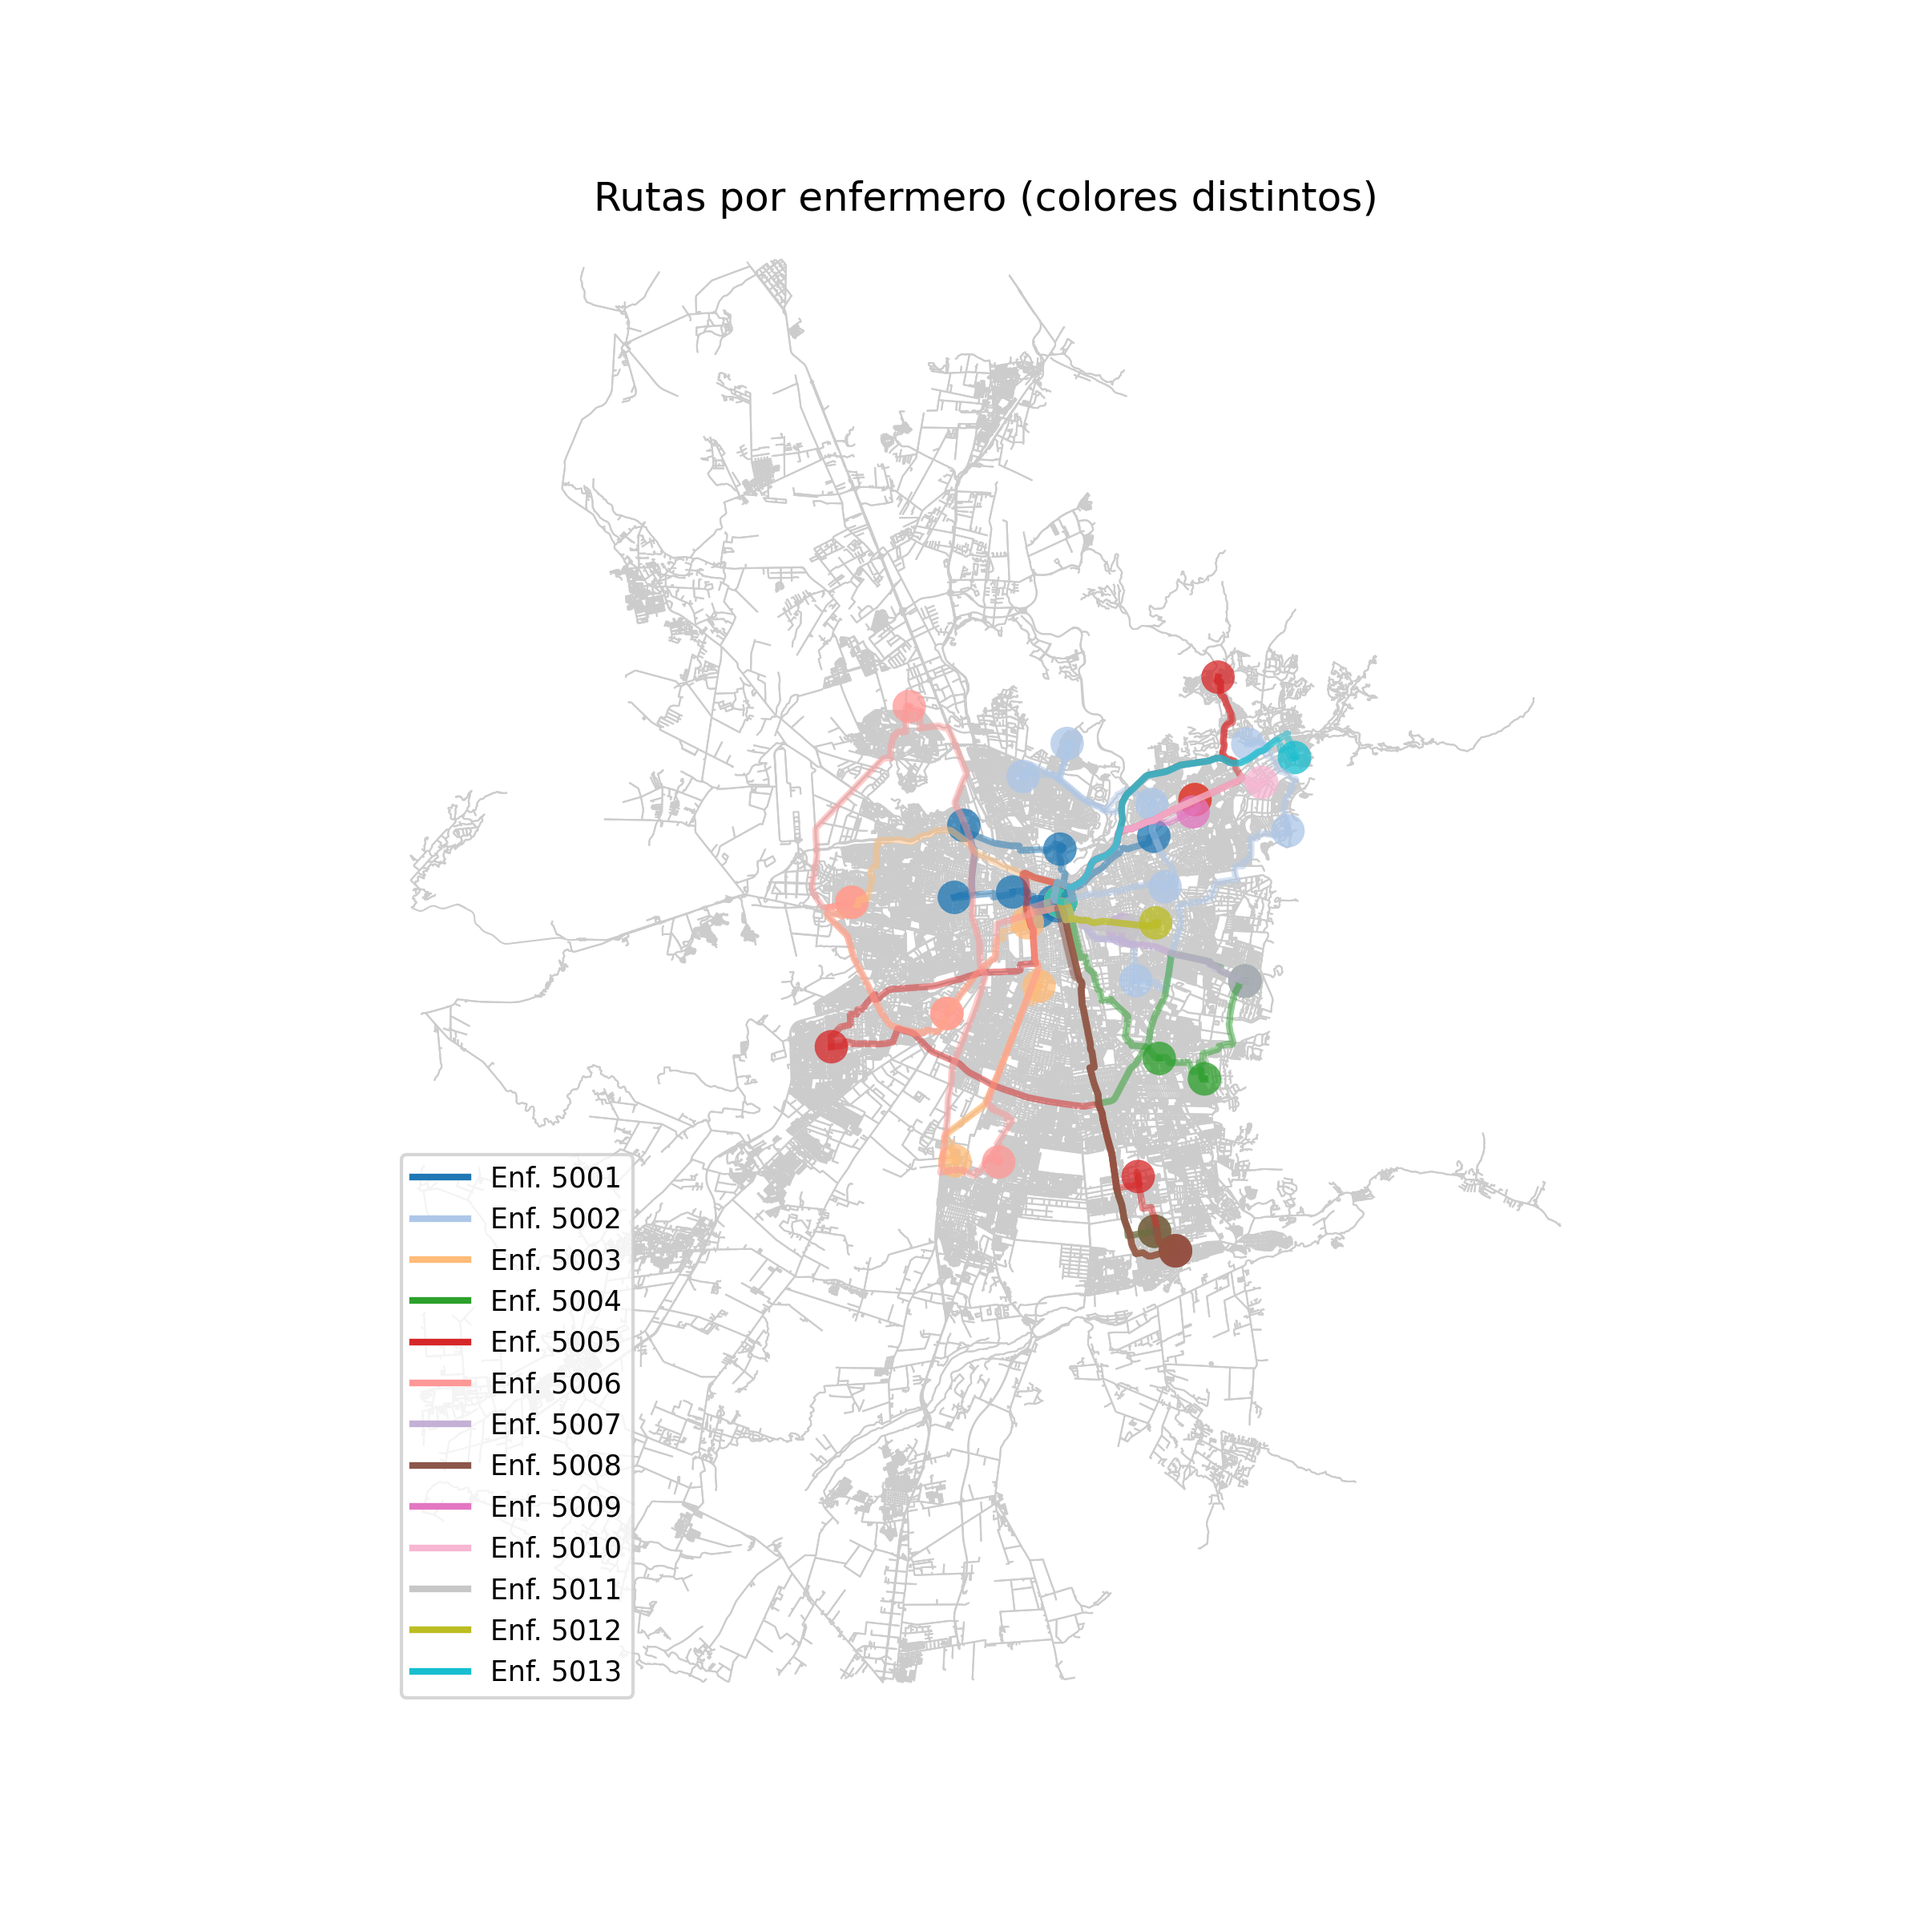
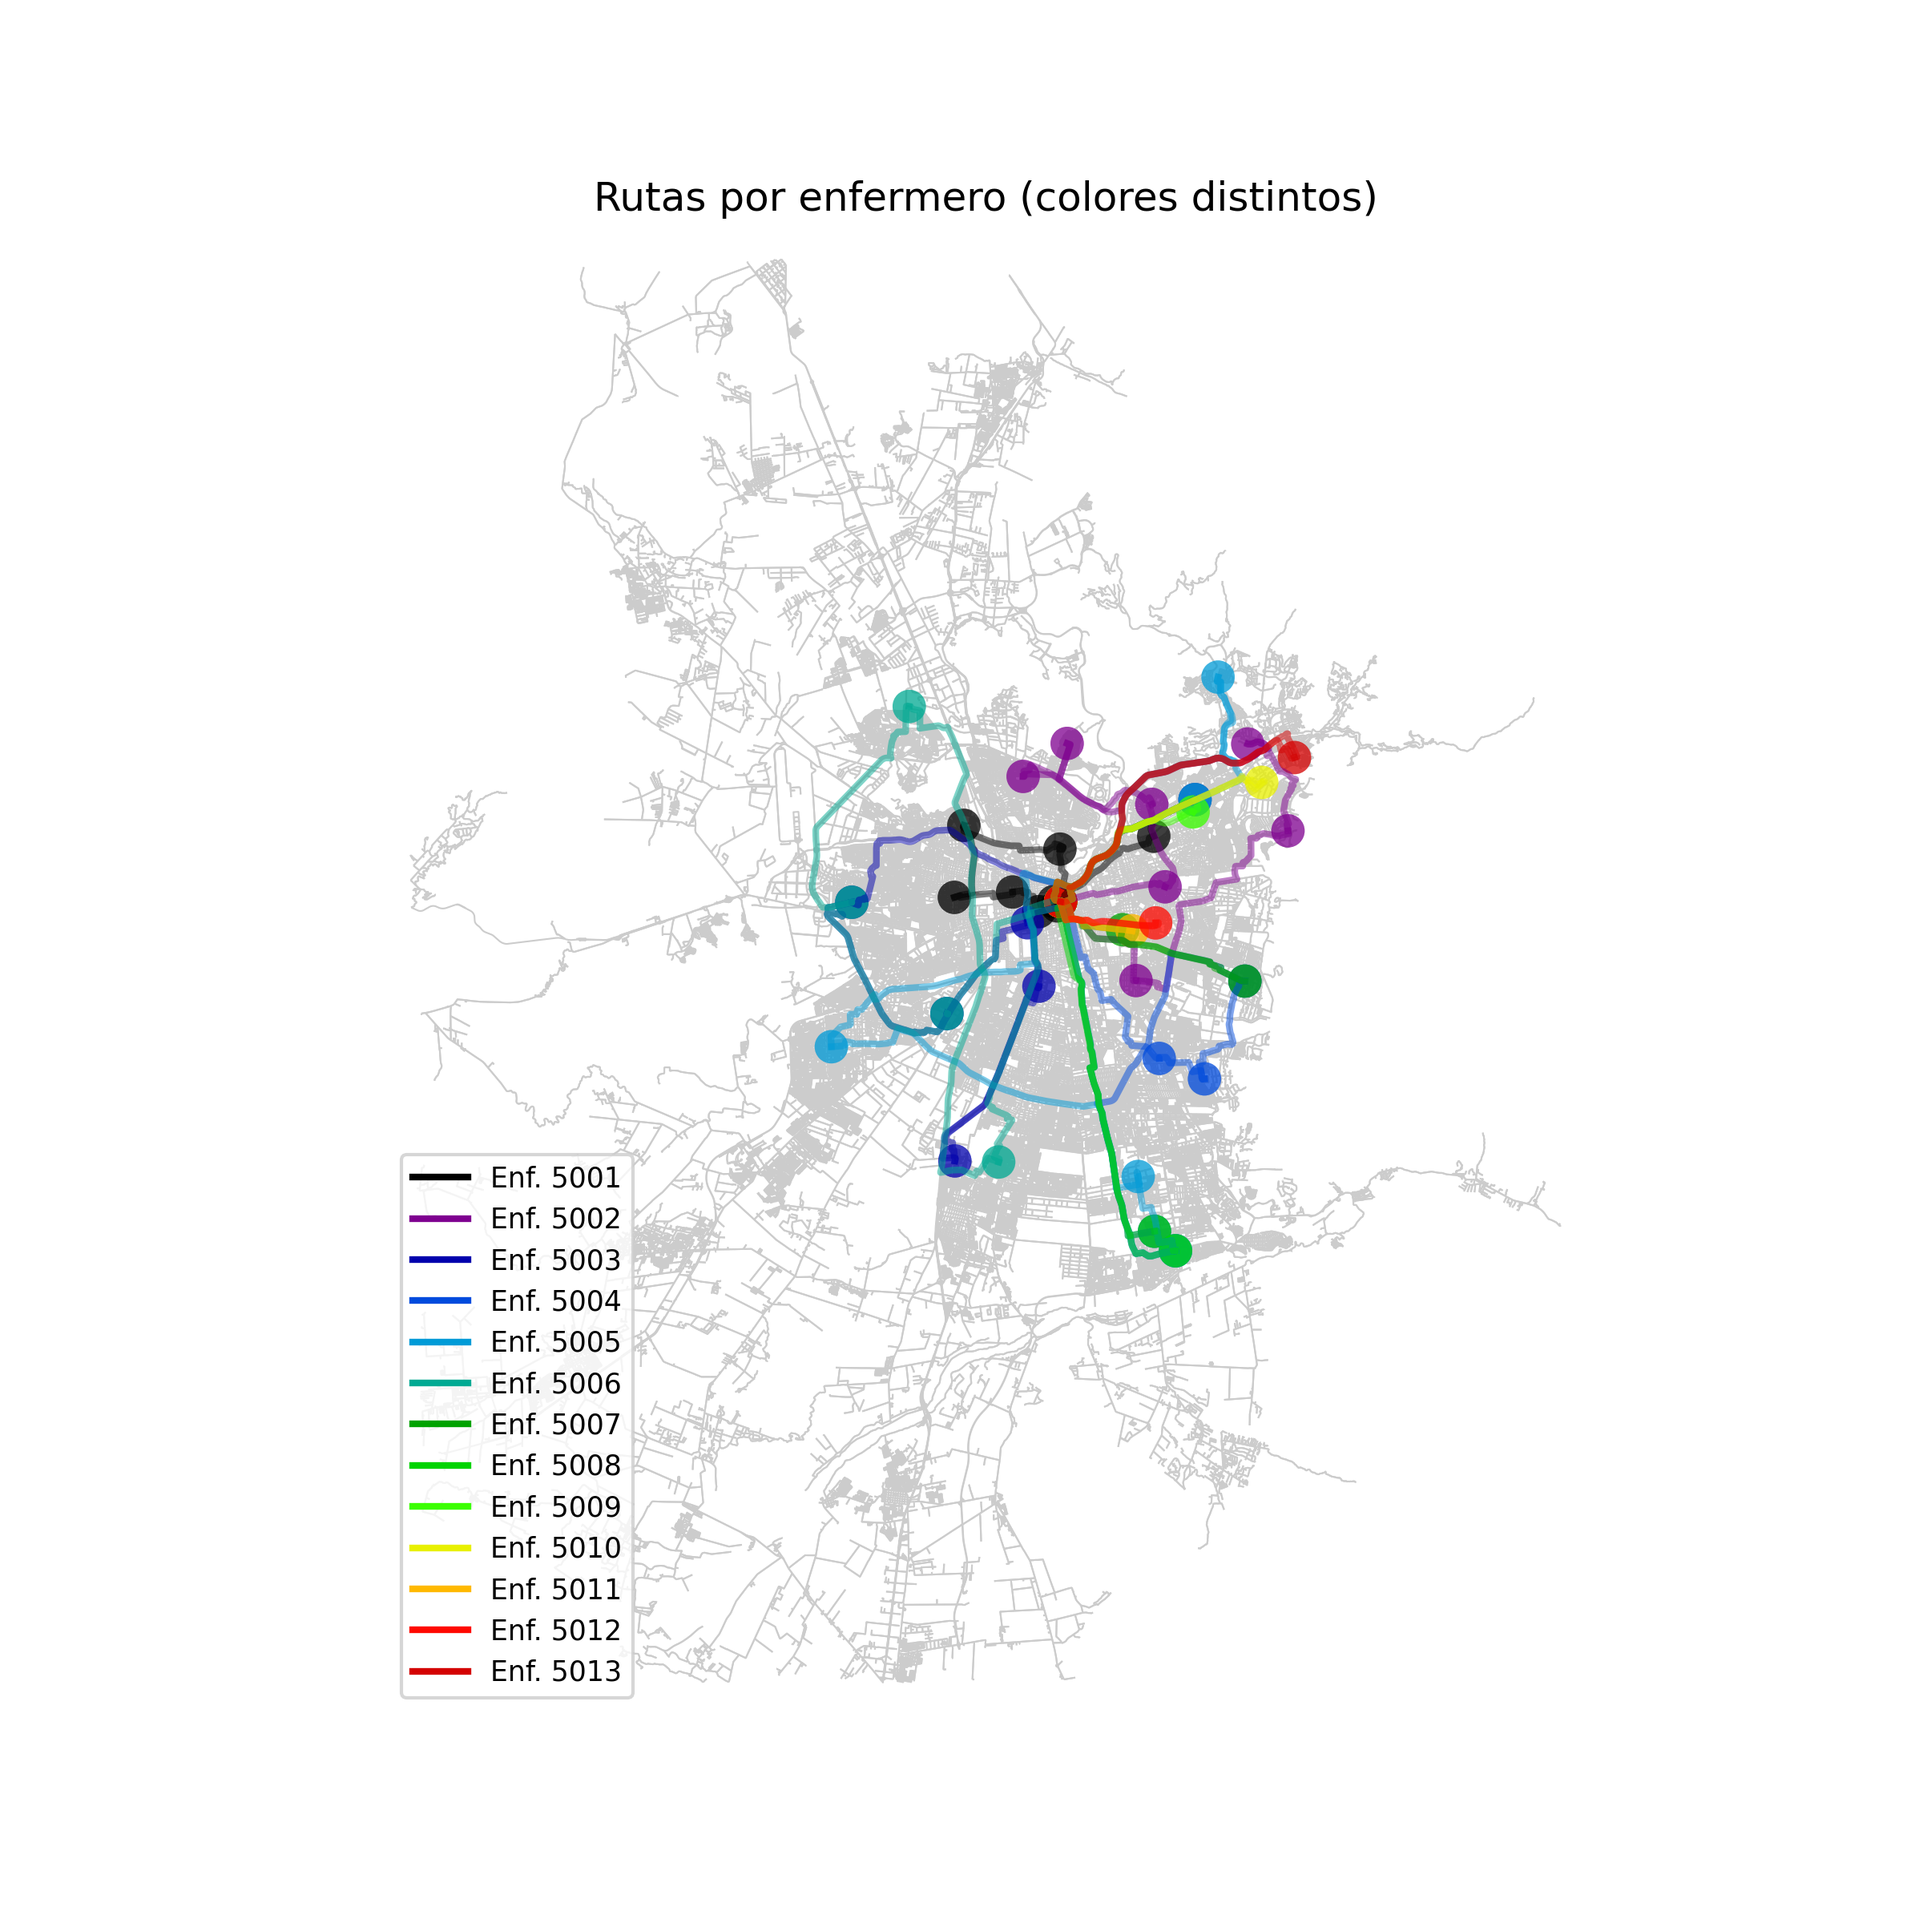
visuales

Changed region(s): [[0.4062, 0.3438, 0.6875, 0.6562], [0.2188, 0.5938, 0.25, 0.75], [0.2188, 0.7812, 0.25, 0.875]]

diff --git a/Modelo/visual_generico.py b/Modelo/visual_generico.py
@@ -4,9 +4,14 @@ import osmnx as ox
 import ast
 import matplotlib.pyplot as plt
 import matplotlib.colors as mcolors
+import matplotlib.colors as mcolors
+import colorsys
 from pathlib import Path
 from matplotlib.lines import Line2D
 import numpy as np
+
+seed = 42
+np.random.seed(seed)
 
 #  Parametros de configuracion
 semana = 's1'
@@ -40,6 +45,14 @@ arcos['ruta_nodos'] = arcos['ruta_nodos'].apply(ast.literal_eval)
 Path("visualizaciones").mkdir(parents=True, exist_ok=True)
 
 def plot_rutas_por_enfermero():
+    variables = {}
+    print(f"Cargando variables de decisión para el día {dias_semana[dia]} y modelo {modelos[tipo_modelo]}...")
+    for var in ['X', 'Y', 'Z', 'W', 'RM', 'RE', 'PM', 'PE', 'I']:
+        try:
+            df = pd.read_csv(f"Resultados_Finales/{dias_semana[dia]}/{modelos[tipo_modelo]}/{var}.csv")
+            variables[var] = df
+        except FileNotFoundError:
+            print(f"{var}.csv no encontrado, se omite.")
     df_x = variables.get("X")
     if df_x is None:
         print("❌ Variable X no cargada.")
@@ -118,9 +131,10 @@ def plot_rutas_todos_enfermeros():
         if len(arcos_validos[arcos_validos["Enfermero"] == enf_id]) > 1:
             enfermeros_que_atienden.append(enf_id)
 
-    colormap = plt.colormaps['tab20']
-    colores = {enf: mcolors.rgb2hex(colormap(i / len(enfermeros_que_atienden))) for i, enf in enumerate(enfermeros_que_atienden)}
-
+    colormap = plt.colormaps['nipy_spectral']  # También puedes probar con 'rainbow' o 'hsv'
+    colores = {
+        enf: mcolors.rgb2hex(colormap(i / len(enfermeros_que_atienden))) for i, enf in enumerate(enfermeros_que_atienden)
+    }
 
     for _, fila in arcos_validos.iterrows():
         # es de un enfermero con menos de 2 arcos, se omite
